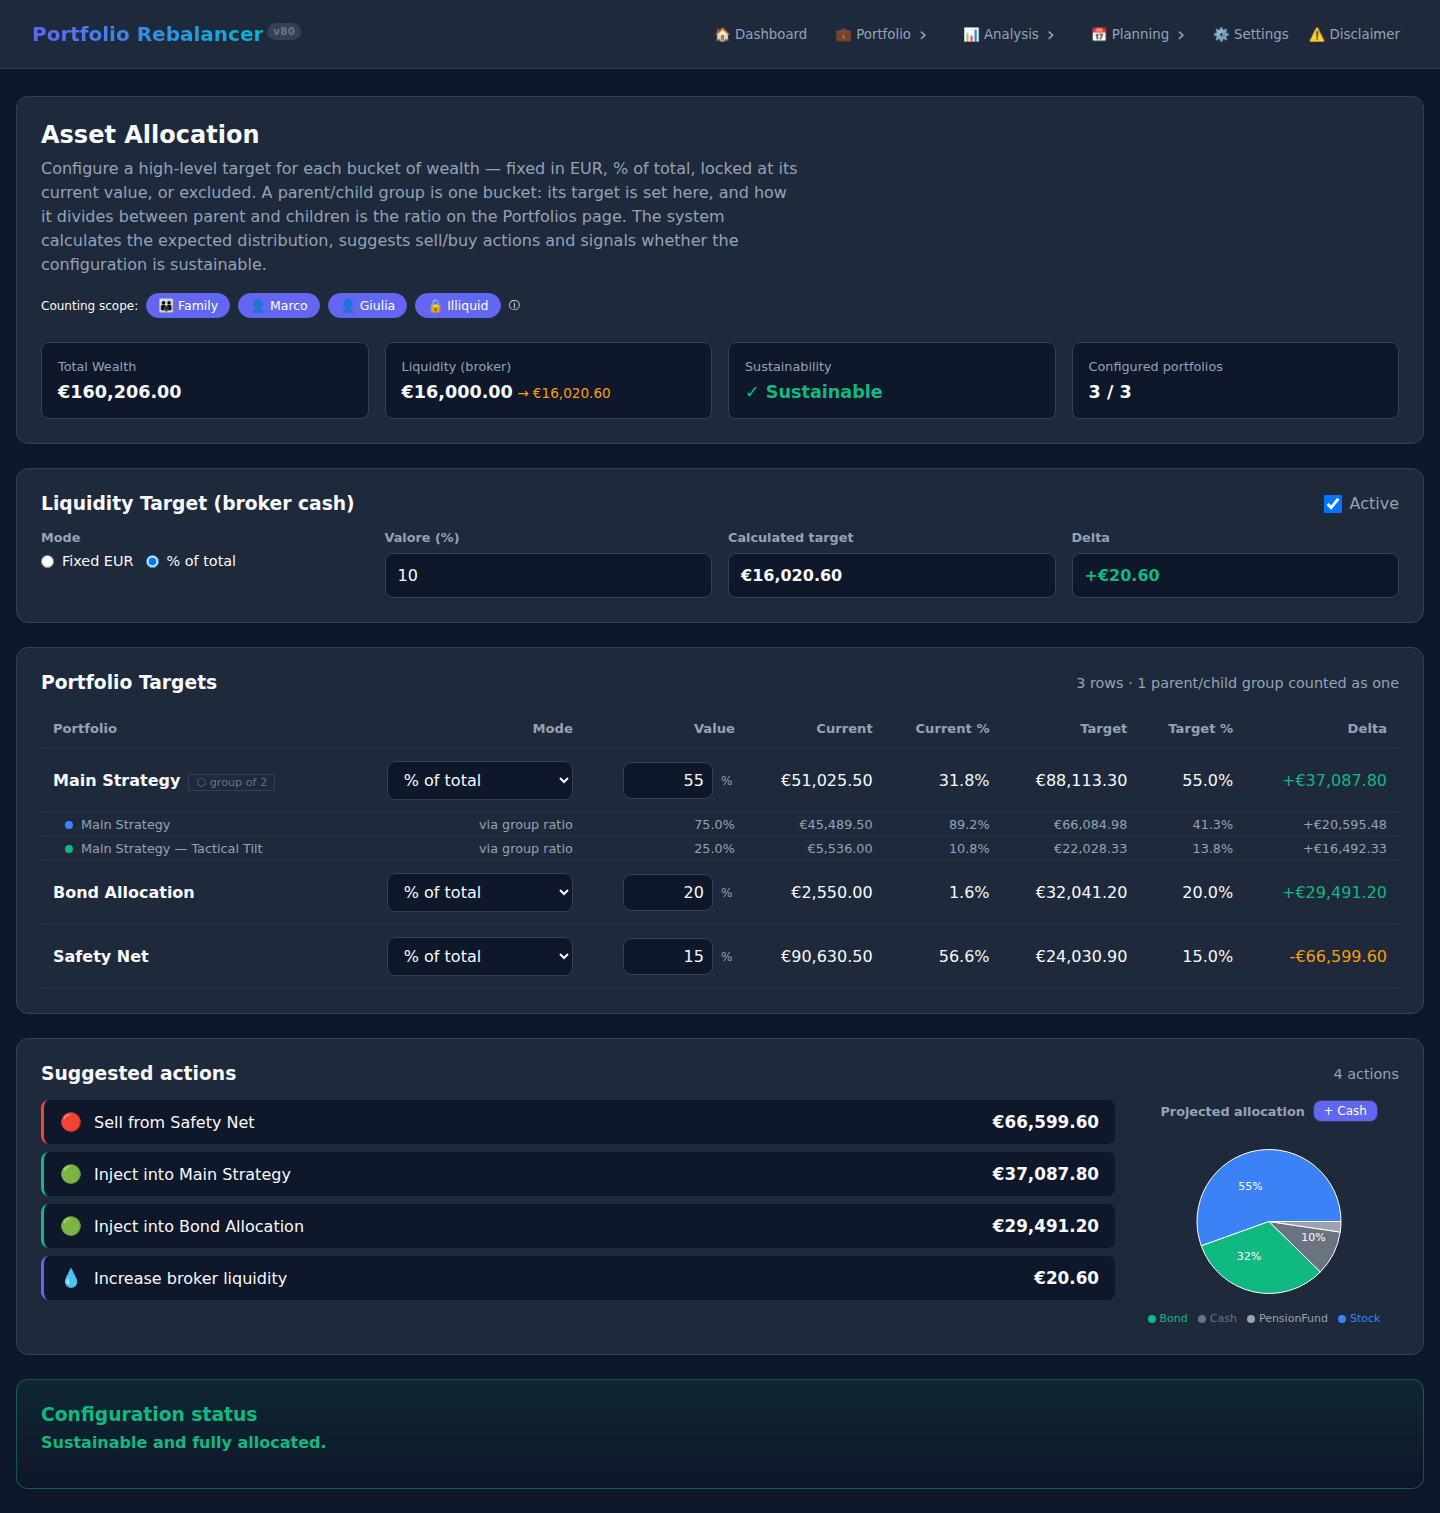
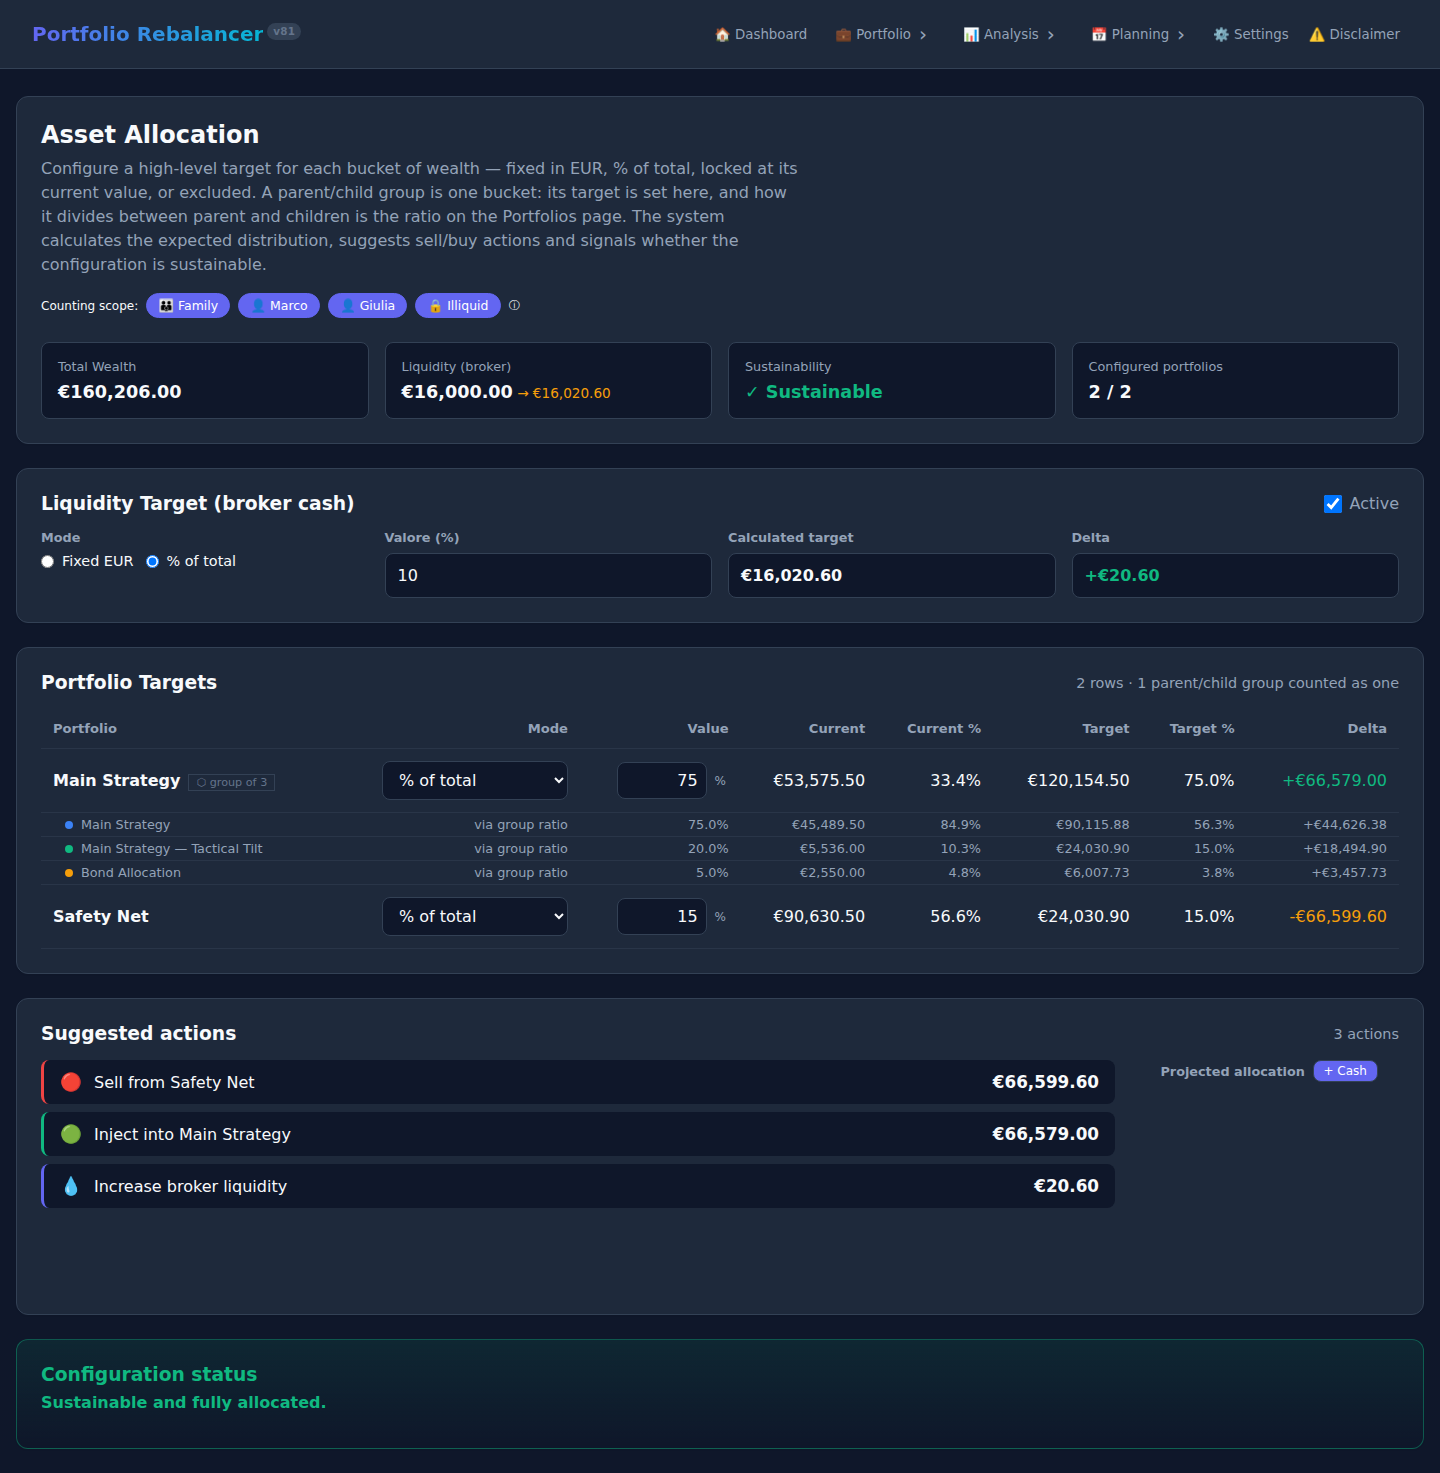
feat(mock): a bond sleeve under the growth core, on its own goal
A child carrying a different goal than its parent is the ordinary shape of
a sleeve inside a core, not a misconfiguration — I had it backwards. A
rolling aggregate bond ETF has no maturity to hold to, so it is Security
shaded toward the parent's Growth rather than cleanly either.

The demo dataset now says so with what it already had: Bond Allocation
holds AGGH and becomes a child of Main Strategy, keeping its Security
goal. The group is three members split 75 / 20 / 5, takes one 75% target
in Asset Allocation, and the goal pyramid shows Growth as
EUR 51,032 of its own plus EUR 2,550 merged from Security, drawn in a
lighter tint of the Growth blue with the lending goal named on hover.

The copy follows: the note in the ratio dialog was styled as a warning and
is now a plain explanation, and the pyramid's legend says why you would
build a group this way instead of only what the shading means.

Side effect worth knowing: Bond Allocation was the demo's only Security
portfolio, so that level now has no value of its own and the pyramid shows
Liquidity / Growth / Protection with Security appearing only as the tint
inside Growth.

Claude-Session: https://claude.ai/code/session_0188QaN5MiSNNAeVveKinPRF

diff --git a/src/context/PortfolioContext.tsx b/src/context/PortfolioContext.tsx
@@ -1944,8 +1944,9 @@ export const PortfolioProvider: React.FC<{ children: React.ReactNode }> = ({ chi
             {
                 id: pIdMain,
                 name: 'Main Strategy',
-                // Parent/child ratio: the group is planned 75/25 between the
-                // core and its tactical tilt. Edited from the Portfolios page.
+                // Parent/child ratio over the three members of the group, set
+                // from the Portfolios page: the core, its tactical tilt, and the
+                // rolling bond sleeve.
                 groupSharePercent: 75,
                 description: 'Core developed + emerging stocks (Growth parent)',
                 goalId: 'goal-growth',
@@ -1975,7 +1976,7 @@ export const PortfolioProvider: React.FC<{ children: React.ReactNode }> = ({ chi
                 description: 'Nested Growth sub-portfolio tilting toward EM + dividend ETF',
                 goalId: 'goal-growth',
                 parentId: pIdMain,
-                groupSharePercent: 25,
+                groupSharePercent: 20,
                 order: 1,
                 // Weighted allocation group: instead of priority order, buys and
                 // sells keep VWRL/EMIM close to their intra-group weight %.
@@ -1997,8 +1998,15 @@ export const PortfolioProvider: React.FC<{ children: React.ReactNode }> = ({ chi
             {
                 id: pIdBonds,
                 name: 'Bond Allocation',
-                description: 'Global aggregate bond exposure (Security goal)',
+                description: 'Rolling aggregate bond sleeve inside the Growth core — Security, shaded toward Growth',
+                // A CHILD whose goal differs from its parent's, which is the
+                // ordinary case rather than a mistake: a rolling bond ETF has no
+                // maturity to hold to, so it behaves like Security shaded toward
+                // Growth. It counts at the parent's level in the pyramid and is
+                // drawn there in a lighter tint, naming Security on hover.
                 goalId: 'goal-security',
+                parentId: pIdMain,
+                groupSharePercent: 5,
                 order: 2,
                 // Single-broker portfolio: the full rebalance prices every leg
                 // against Trade Republic's commission plan and checks its cash
@@ -2278,12 +2286,11 @@ export const PortfolioProvider: React.FC<{ children: React.ReactNode }> = ({ chi
         setStoredAssetAllocationSettings({
             liquidityTarget: { mode: 'percent', value: 10 },
             portfolioTargets: {
-                // Main Strategy and its Tactical Tilt are one parent/child
-                // group, so they take ONE target, keyed on the group. How that
-                // target is shared between them is the ratio on the portfolios
-                // (75/25 here), not a second row in this table.
-                [`${MERGED_PORTFOLIO_PREFIX}${pIdMain}`]: { mode: 'percent', value: 55 },
-                [pIdBonds]: { mode: 'percent', value: 20 },
+                // Main Strategy, its Tactical Tilt and the Bond Allocation are
+                // one parent/child group, so they take ONE target, keyed on the
+                // group. How that target is shared between them is the ratio on
+                // the portfolios (75/20/5), not three rows in this table.
+                [`${MERGED_PORTFOLIO_PREFIX}${pIdMain}`]: { mode: 'percent', value: 75 },
                 [pIdSafe]: { mode: 'percent', value: 15 }
             }
         });

diff --git a/src/components/Portfolios/GroupRatioModal.tsx b/src/components/Portfolios/GroupRatioModal.tsx
@@ -239,11 +239,13 @@ const GroupRatioModal: React.FC<Props> = ({ parent, onClose }) => {
                     </p>
                 )}
                 {divergentGoals.length > 0 && (
-                    <p className="ratio-note ratio-note-warn">
+                    <p className="ratio-note">
                         {divergentGoals.map(d => `${d.name} (${d.goalTitle})`).join(', ')}
-                        {divergentGoals.length === 1 ? ' is' : ' are'} attached to a different goal than the parent.
+                        {divergentGoals.length === 1 ? ' is' : ' are'} attached to a different goal than the parent
+                        — which is what a sleeve inside a core usually is. A rolling bond ETF, say, has no maturity
+                        to hold to, so it is Security shaded toward the parent's goal rather than either one alone.
                         Because the group counts as one portfolio, that value sits at the parent's level in the
-                        pyramid — shown there in a lighter shade, so you can see it is on loan. The pyramid's
+                        pyramid, drawn in a lighter shade of it and naming its own goal on hover. The pyramid's
                         total does not change.
                     </p>
                 )}

diff --git a/src/components/Dashboard/AllocationCharts.tsx b/src/components/Dashboard/AllocationCharts.tsx
@@ -573,9 +573,10 @@ export const GoalDistributionChart: React.FC<{ data: GoalSegment[]; total: numbe
                 {visible.some(g => g.inherited.length > 0) && (
                     <div style={{ marginTop: '0.6rem', fontSize: '0.78rem', color: 'var(--text-muted)', lineHeight: 1.5 }}>
                         <span style={{ display: 'inline-block', width: 10, height: 10, borderRadius: 2, backgroundColor: tintForInherited('#9CA3AF'), marginRight: 6, verticalAlign: 'middle' }} />
-                        The lighter part of a level is value merged in from a portfolio attached to
-                        another goal, because its parent/child group counts as one portfolio. It sits
-                        here, but it belongs there — hover a level for the split. Totals are unchanged.
+                        The lighter part of a level is a sleeve whose own goal is a different one,
+                        counted here because its parent/child group is one portfolio — a rolling bond
+                        ETF inside a growth core, say: Security by intent, shaded toward Growth because
+                        it never matures. Hover a level for the split; totals are unchanged.
                     </div>
                 )}
             </div>

diff --git a/README.md b/README.md
@@ -88,7 +88,7 @@ A composition deep-dive across portfolios and macro exposure.
 ![Stats — per portfolio](screenshots/stats_bottom.png)
 
 - **Portfolio Pyramid** — wealth distribution by goal category (Growth → Protection → Security → Liquidity).
-  - Parent/child groups count as **one portfolio**, so a member attached to a *different* goal than its parent is counted at the parent's level. That is a re-bucketing, never a re-count: the pyramid's total is identical either way, and the level shows the borrowed part as a **lighter shade of its own colour**, with the lending goal named on hover. A portfolio with no goal at all stays outside the pyramid, group member or not — exactly as before.
+  - Parent/child groups count as **one portfolio**, so a sleeve carrying a *different* goal than its parent — the usual case for, say, a rolling bond ETF inside a growth core — is counted at the parent's level and drawn as a **lighter shade of that level's colour**, with its own goal named on hover. That is a re-bucketing, never a re-count: the pyramid's total is identical either way, and `nativeValue + Σ inherited === value` at every level. A portfolio with no goal at all stays outside the pyramid, group member or not — exactly as before.
 
 ![Goal pyramid with a merged, borrowed slice](screenshots/stats_goal_pyramid_merged.png)
 - **Macro Allocation** — aggregate exposure (Stocks, Bonds, Cash…) vs your configured targets.
@@ -225,6 +225,8 @@ Organise investments into distinct portfolios (e.g. *Main Strategy*, *Bond Alloc
 ![Portfolios](screenshots/portfolios_page.png)
 
 **Parent/child groups** — a portfolio nested under another is not just a visual grouping: the two are read as **one portfolio** wherever that is the useful reading (Stats pyramid, Performance, Fund Relocation, Asset Allocation).
+
+A child is normally a **sleeve inside a core**, and it often carries a *different goal* than its parent — that is the point, not a mistake. The demo's *Bond Allocation* sits under the growth core on a **Security** goal: it holds a rolling aggregate bond ETF, which never matures, so it behaves like Security shaded toward Growth rather than either one cleanly. The group counts as one portfolio, so that value is counted at the parent's level in the pyramid and drawn there in a lighter tint of it (see *Stats*).
 
 The **group ratio** — how the group splits internally between parent and children — is set here, from the ⚖ button on the parent's card:
 
